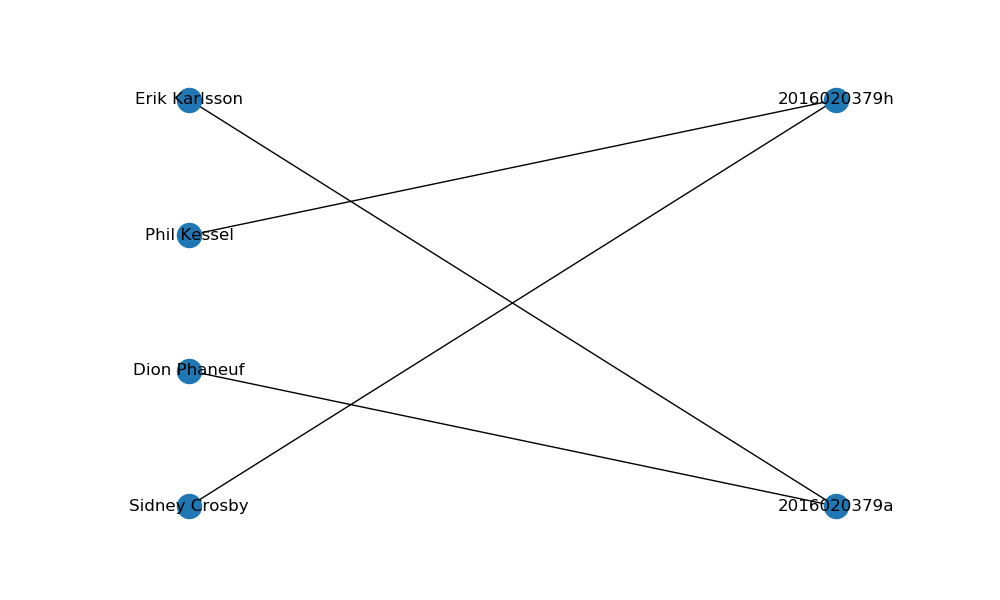
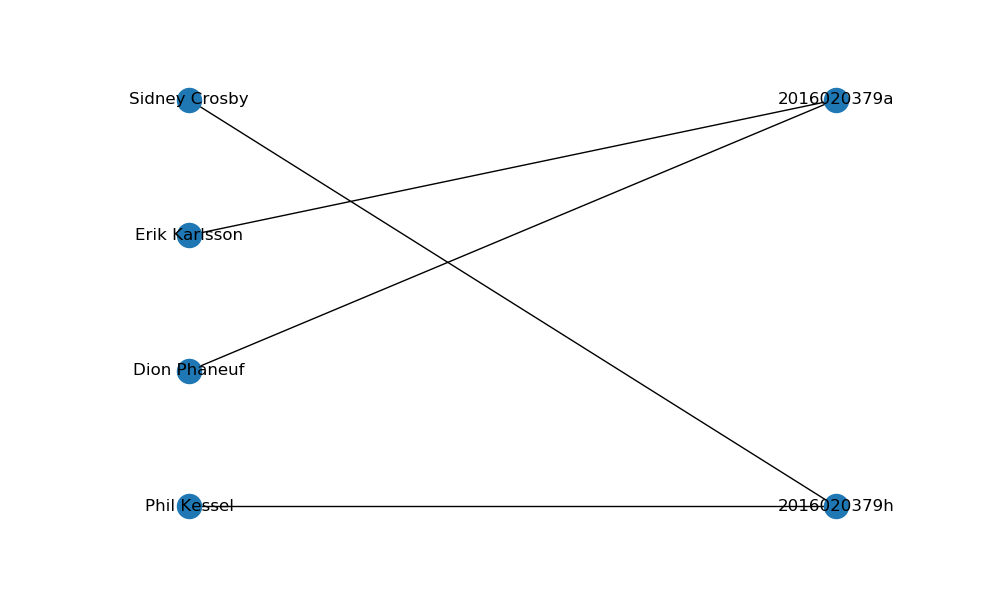
Add more notes to notebook

diff --git a/src/visualization/create_graphs.py b/src/visualization/create_graphs.py
@@ -20,11 +20,14 @@ ax = plt.subplot(111)
 top = nx.drawing.layout.bipartite_layout(subgraph,subgraph_players)
 top = {k:(np.array([0.75,v[1]]) if k in subgraph_players else v) for k,v in top.items()}
 nx.draw(subgraph,with_labels=True,pos=top)
-plt.savefig('../figures/bipartite.png')
+plt.savefig('../../figures/bipartite.png')
 plt.close()
 
 figure = plt.figure(figsize=(10,6))
 ax = plt.subplot(111)
-nx.draw_spring(proj_graph,with_labels=True)
-plt.savefig('../figures/bipartite2.png')
+nx.draw(proj_graph,pos={'Sidney Crosby':np.array([1.25,0.25]),
+	'Phil Kessel':np.array([1.5,0.25]),
+	'Dion Phaneuf':np.array([1.25,1.25]),
+	'Erik Karlsson':np.array([1.5,1.25])},with_labels=True)
+plt.savefig('../../figures/bipartite2.png')
 plt.close()
